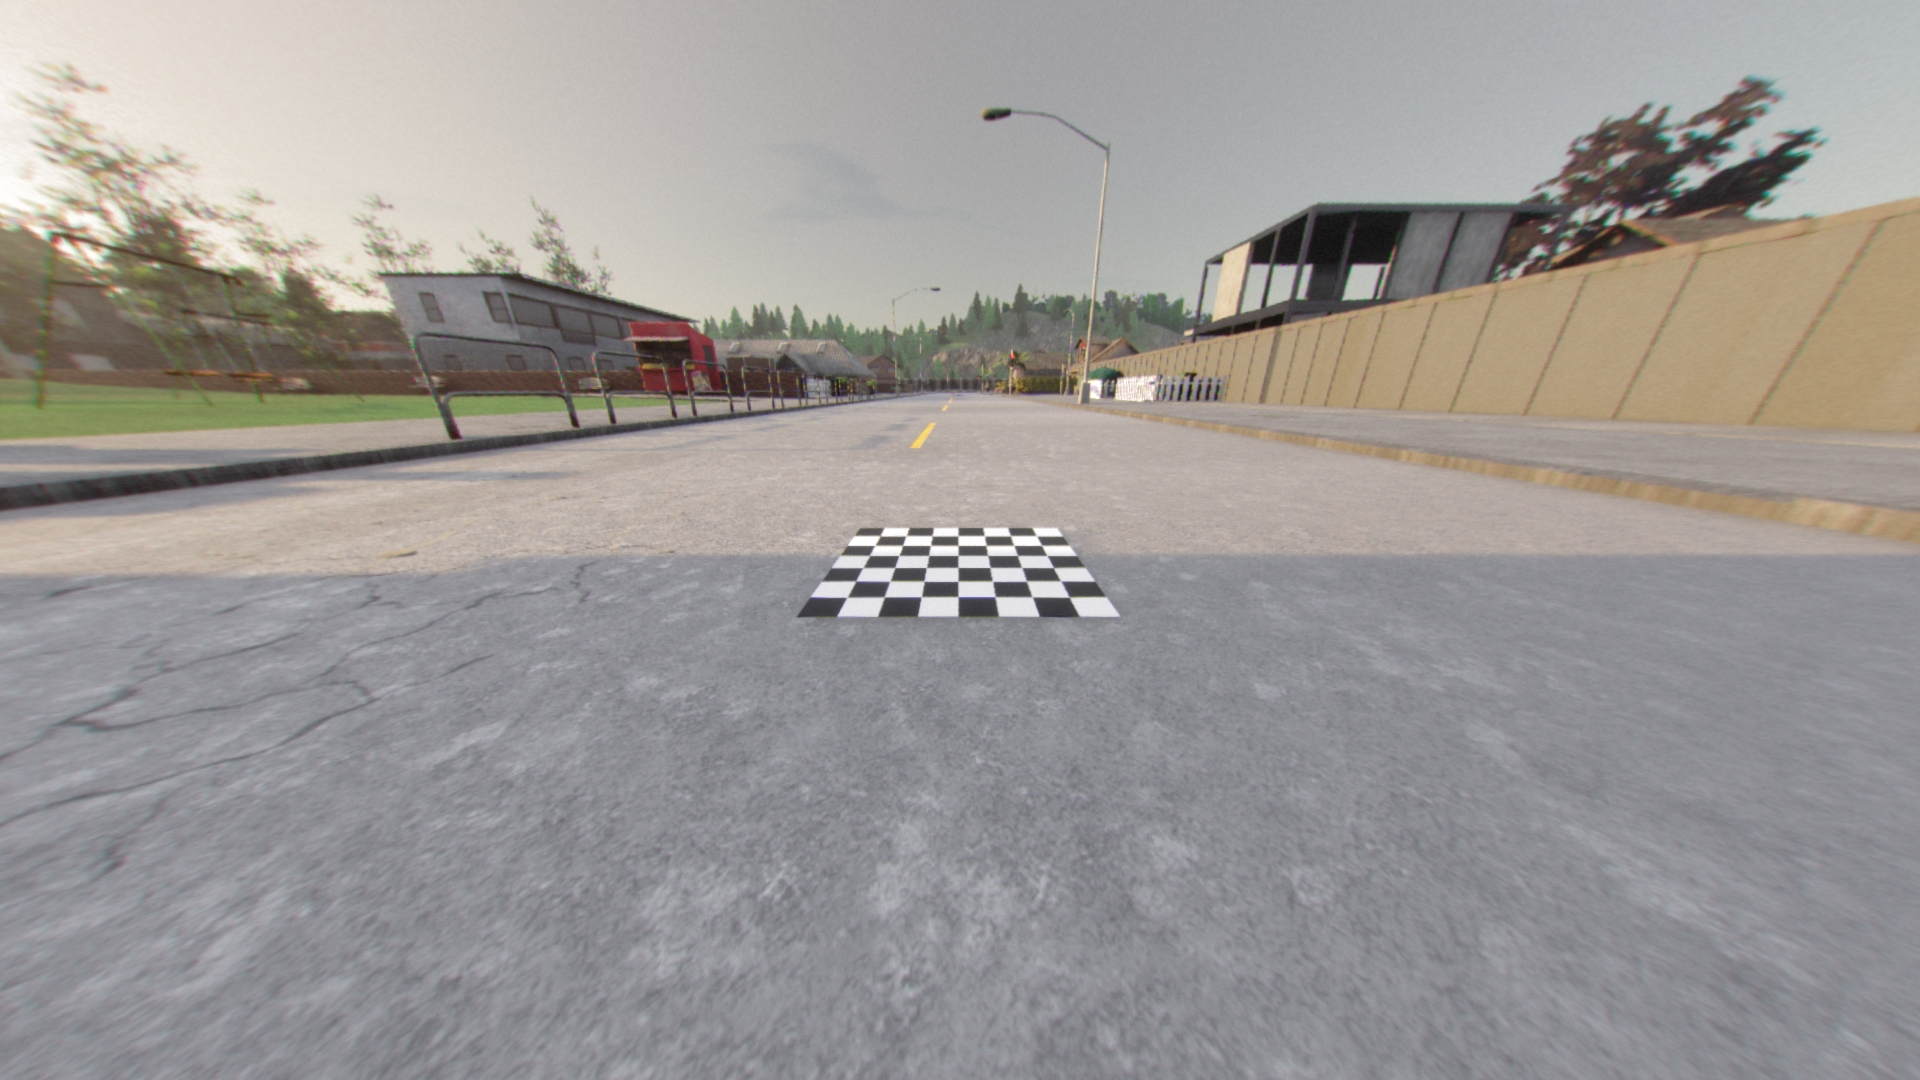
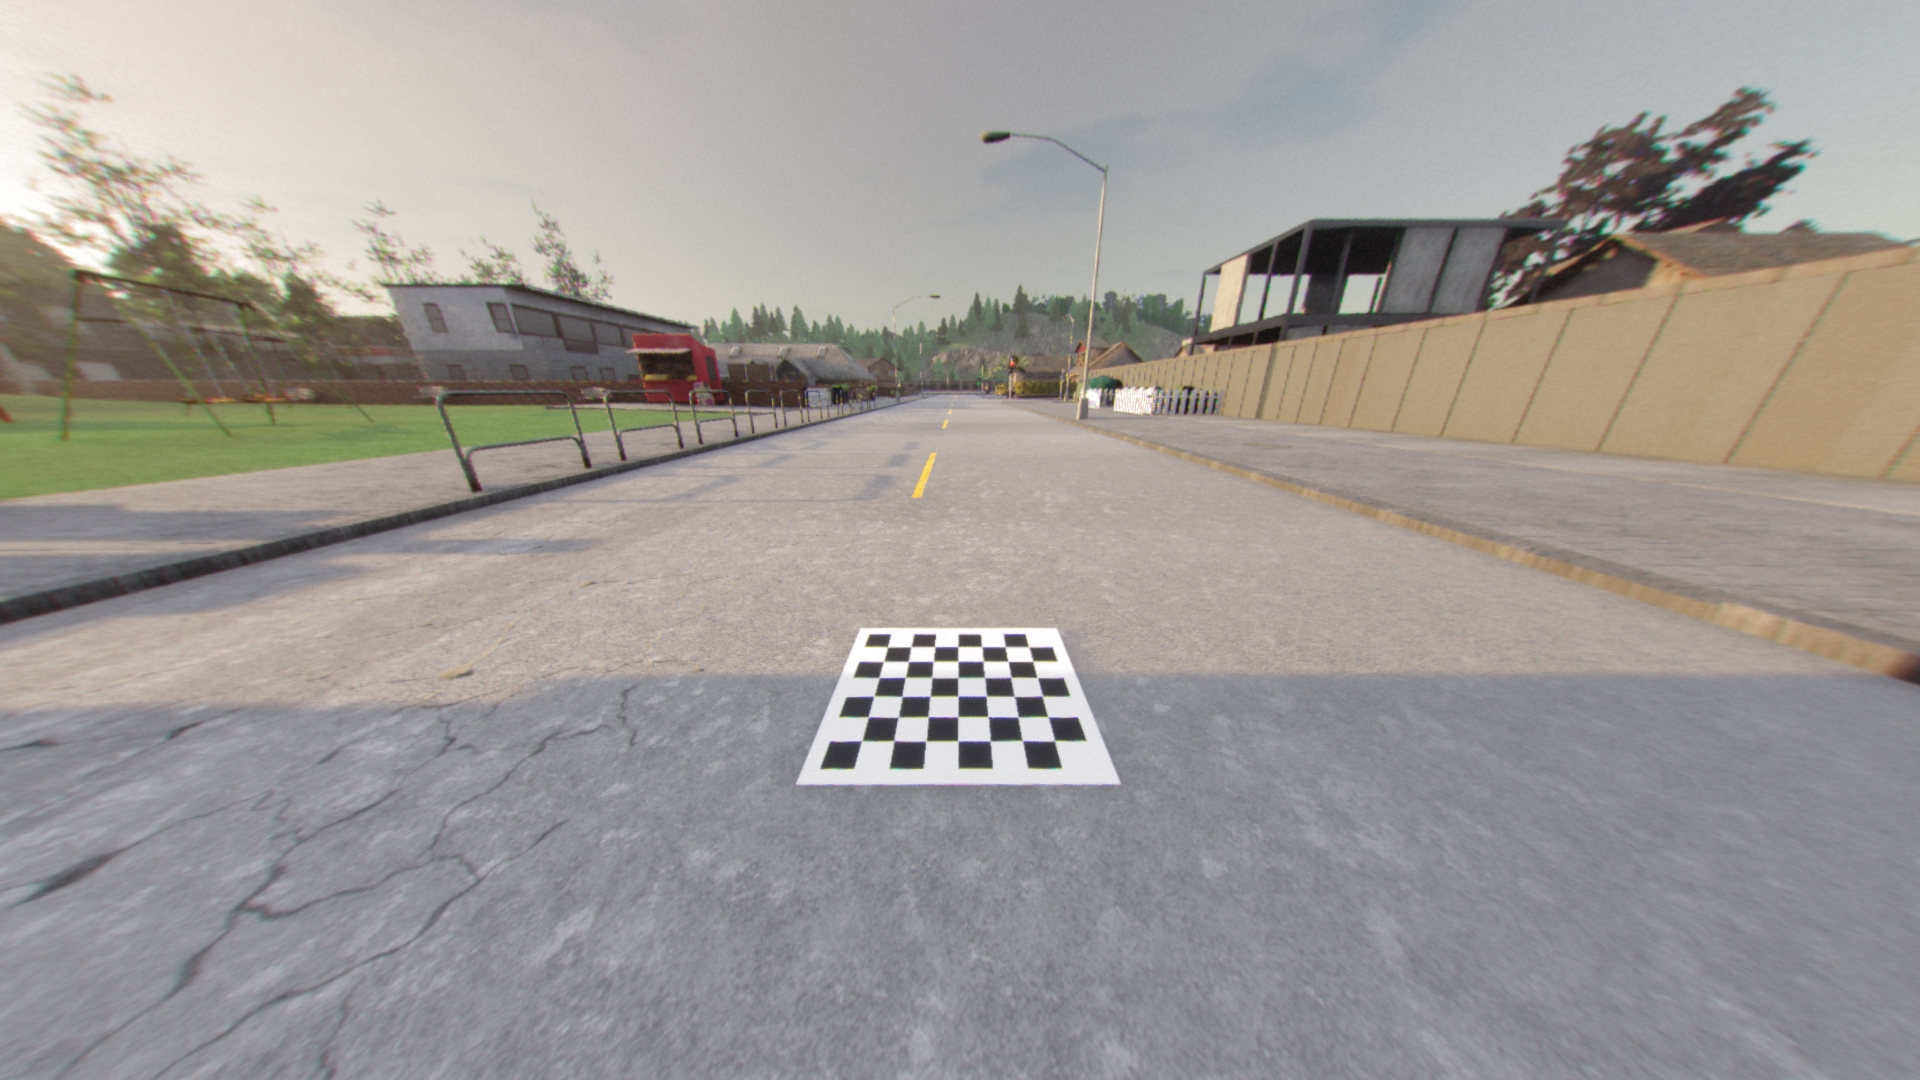
first good version

diff --git a/MyBEV/surroundBEV.py b/MyBEV/surroundBEV.py
@@ -9,13 +9,15 @@ parser.add_argument('-fh', '--FRAME_HEIGHT', default=1080, type=int, help='Camer
 parser.add_argument('-bw', '--BEV_WIDTH', default=1080, type=int, help='BEV Frame Width') #939
 parser.add_argument('-bh', '--BEV_HEIGHT', default=1080, type=int, help='BEV Frame Height')
 # parser.add_argument('-cw', '--CAR_WIDTH', default=200, type=int, help='Car Frame Width')
-parser.add_argument('-cw', '--CAR_WIDTH', default=210, type=int, help='Car Frame Width')
+parser.add_argument('-cw', '--CAR_WIDTH', default=170, type=int, help='Car Frame Width')
+# parser.add_argument('-cw', '--CAR_WIDTH', default=210, type=int, help='Car Frame Width')
 # parser.add_argument('-ch', '--CAR_HEIGHT', default=300, type=int, help='Car Frame Height')
-parser.add_argument('-ch', '--CAR_HEIGHT', default=420, type=int, help='Car Frame Height')
+parser.add_argument('-ch', '--CAR_HEIGHT', default=320, type=int, help='Car Frame Height') ## 200较好
+# parser.add_argument('-ch', '--CAR_HEIGHT', default=420, type=int, help='Car Frame Height')
 parser.add_argument('-fs', '--FOCAL_SCALE', default=1.0, type=float, help='Camera Undistort Focal Scale')
 parser.add_argument('-ss', '--SIZE_SCALE', default=1.0, type=float, help='Camera Undistort Size Scale')
-parser.add_argument('-blend','--BLEND_FLAG', default=True, type=bool, help='Blend BEV Image (Ture/False)')
-parser.add_argument('-balance','--BALANCE_FLAG', default=True, type=bool, help='Balance BEV Image (Ture/False)')
+parser.add_argument('-blend','--BLEND_FLAG', default=False, type=bool, help='Blend BEV Image (Ture/False)')
+parser.add_argument('-balance','--BALANCE_FLAG', default=False, type=bool, help='Balance BEV Image (Ture/False)')
 args = parser.parse_args()
 
 FRAME_WIDTH = args.FRAME_WIDTH
@@ -332,7 +334,7 @@ def main():
     back = cv2.imread('./data/back/back.png')
     left = cv2.imread('./data/left/left.png')
     right = cv2.imread('./data/right/right.png')
-    car = cv2.imread('./data/car.png')
+    car = cv2.imread('./data/car.jpg')
     car = padding(car, BEV_WIDTH, BEV_HEIGHT)
     
     if front is None:

diff --git a/IntrinsicCalibration/intrinsicCalib.py b/IntrinsicCalibration/intrinsicCalib.py
@@ -7,7 +7,7 @@ parser = argparse.ArgumentParser(description="Camera Intrinsic Calibration")
 parser.add_argument('-input', '--INPUT_TYPE', default='image', type=str, help='Input Source: camera/video/image')
 parser.add_argument('-type', '--CAMERA_TYPE', default='fisheye', type=str, help='Camera Type: fisheye/normal')
 parser.add_argument('-id', '--CAMERA_ID', default=1, type=int, help='Camera ID')
-parser.add_argument('-path', '--INPUT_PATH', default='./front/', type=str, help='Input Video/Image Path')
+parser.add_argument('-path', '--INPUT_PATH', default='./right/', type=str, help='Input Video/Image Path')
 parser.add_argument('-video', '--VIDEO_FILE', default='video.mp4', type=str, help='Input Video File Name (eg.: video.mp4)')
 # parser.add_argument('-image', '--IMAGE_FILE', default='img_raw', type=str, help='Input Image File Name Prefix (eg.: img_raw)')
 parser.add_argument('-image', '--IMAGE_FILE', default='cali', type=str, help='Input Image File Name Prefix (eg.: img_raw)')

diff --git a/ExtrinsicCalibration/extrinsicCalib.py b/ExtrinsicCalibration/extrinsicCalib.py
@@ -4,8 +4,8 @@ import numpy as np
 import os
 
 parser = argparse.ArgumentParser(description="Homography from Source to Destination Image")
-parser.add_argument('-id', '--CAMERA_ID', default='front', type=str, help='Camera ID')
-parser.add_argument('-path', '--INPUT_PATH', default='./front/', type=str, help='Input Source/Destination Image Path')
+parser.add_argument('-id', '--CAMERA_ID', default='right', type=str, help='Camera ID')
+parser.add_argument('-path', '--INPUT_PATH', default='./right/', type=str, help='Input Source/Destination Image Path')
 parser.add_argument('-bw','--BORAD_WIDTH', default=7, type=int, help='Chess Board Width (corners number)')
 parser.add_argument('-bh','--BORAD_HEIGHT', default=6, type=int, help='Chess Board Height (corners number)')
 parser.add_argument('-src', '--SOURCE_IMAGE', default='img_src', type=str, help='Source Image File Name Prefix (eg.:img_src)')
